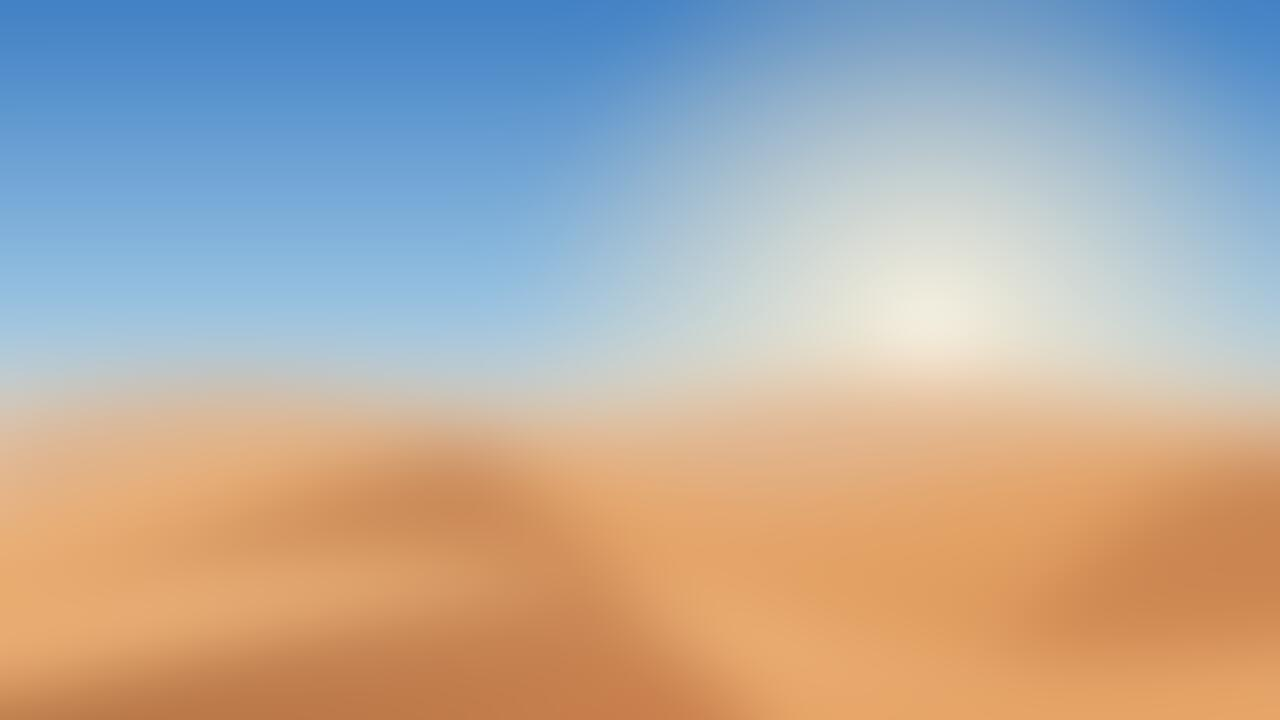
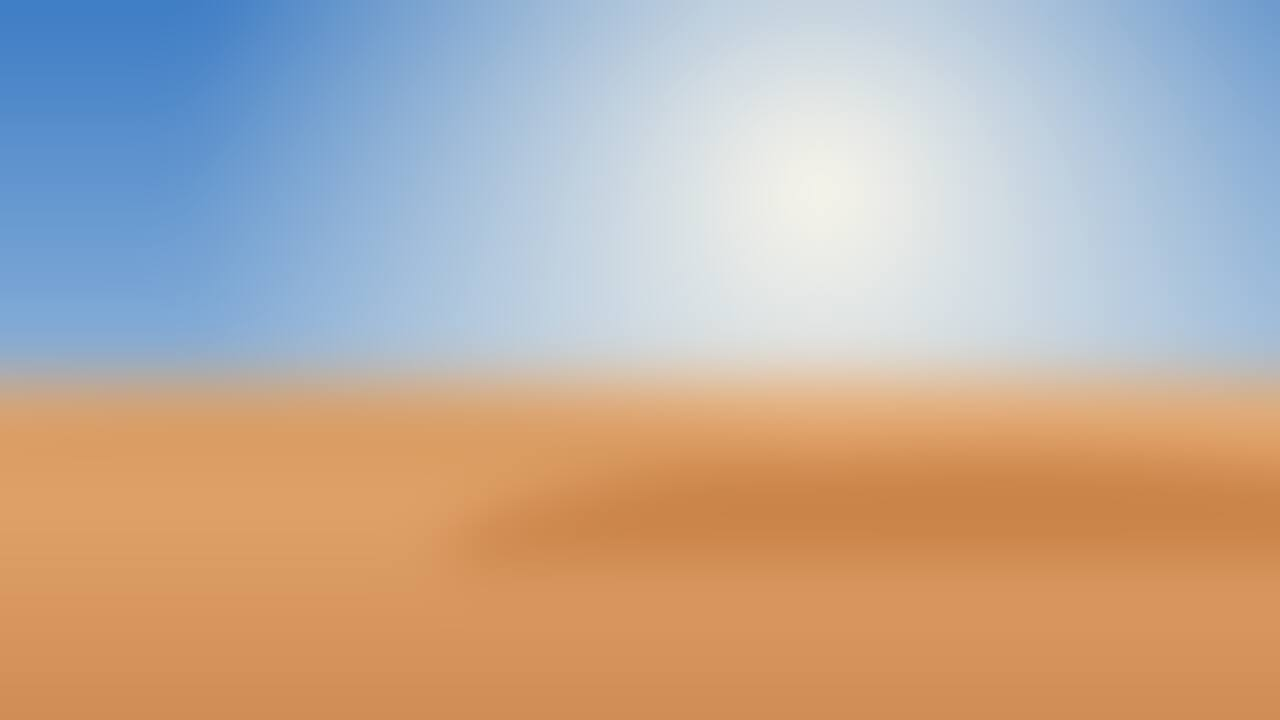
fix(media): generate the desert demo images with build-demo-media.js
They had no generating script in the repo, so their origin rested on a
commit message. Now pnpm media:build draws them with ImageMagick (sky
gradient, sun glow, sand, blur) like the rest of the demo media.

diff --git a/scripts/build-demo-media.js b/scripts/build-demo-media.js
@@ -6,13 +6,15 @@
  *   sample.mid  original two-track melody, written byte by byte below
  *   audio.mp3   30 s of synthesised chords (ffmpeg aevalsrc), no metadata
  *   video.mp4   20 s abstract animation in the vejer palette, silent
+ *   desert-*    blurred desert for the image demo (AVIF, WebP, JPEG)
  *
- * Needs ffmpeg with libmp3lame and libx264. Output is committed, so CI does
- * not need ffmpeg. Usage: node scripts/build-demo-media.js
+ * Needs ffmpeg with libmp3lame and libx264, and ImageMagick (`magick`) with
+ * AVIF support for the desert. Output is committed, so CI needs neither.
+ * Usage: node scripts/build-demo-media.js
  */
 
 import { execFileSync } from "child_process";
-import { writeFileSync } from "fs";
+import { rmSync, writeFileSync } from "fs";
 import { dirname, resolve } from "path";
 import { fileURLToPath } from "url";
 
@@ -129,3 +131,28 @@ ffmpeg([
   resolve(out, "video.mp4"),
 ]);
 console.log("✓ video.mp4");
+
+/* ---- Image: blurred desert (docs image demo) ---------------------------- */
+
+// Sky gradient, a sun glow and sand dunes, blurred so it reads as a photo
+// out of focus. AVIF, WebP and JPEG at 640 and 1280 wide, 16:9.
+const magick = (args) => execFileSync("magick", args, { stdio: "inherit" });
+const desert = resolve(out, "desert-master.png");
+magick([
+  "-size", "1280x720", "gradient:#3d7cc4-#cfe0ec",
+  "(", "-size", "1280x720", "radial-gradient:#fbf6ea-none", "-geometry", "+180-170", ")", "-composite",
+  "(", "-size", "1280x340", "gradient:#e9ad74-#cf8d55", ")", "-geometry", "+0+380", "-composite",
+  "-fill", "#d99a5f", "-draw", "ellipse 300 470 520 70 180 360",
+  "-fill", "#c98247", "-draw", "ellipse 1000 560 560 110 180 360",
+  "-blur", "0x28", "-strip", desert,
+]);
+for (const width of [640, 1280]) {
+  const height = (width * 9) / 16;
+  const base = resolve(out, `desert-${width}`);
+  const resize = ["-resize", `${width}x${height}!`, "-strip"];
+  magick([desert, ...resize, "-quality", "50", `${base}.avif`]);
+  magick([desert, ...resize, "-quality", "60", `${base}.webp`]);
+  magick([desert, ...resize, "-quality", "72", "-interlace", "Plane", `${base}.jpg`]);
+}
+rmSync(desert);
+console.log("✓ desert-{640,1280}.{avif,webp,jpg}");
